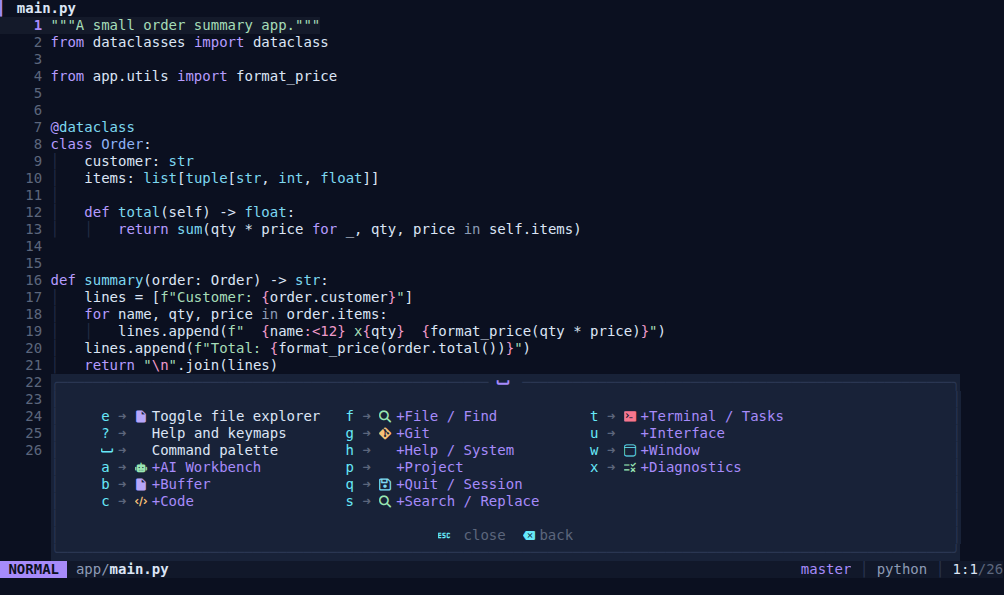
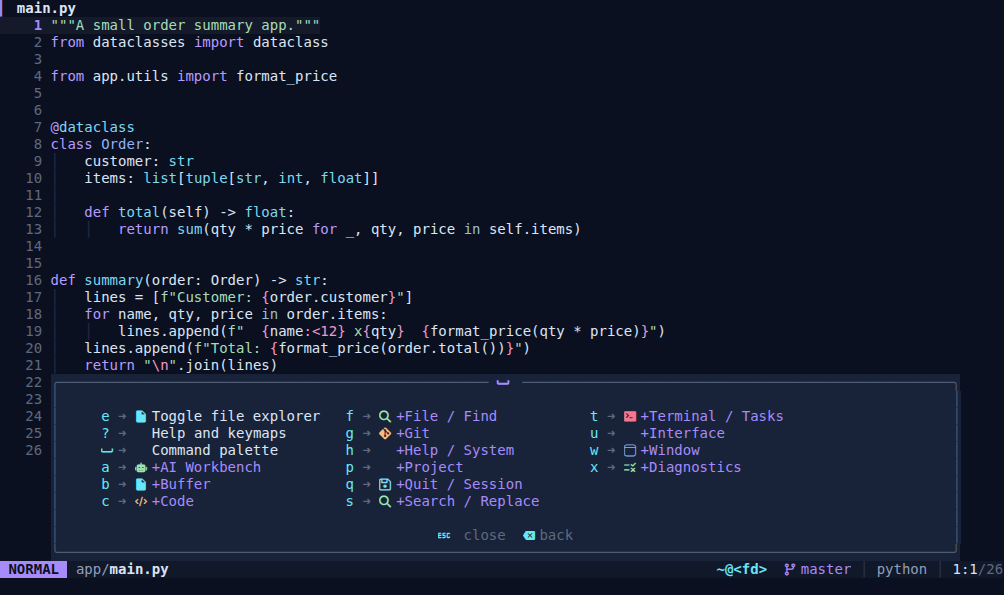
Docs: command line popup, Daybreak, contrast audit; fresh screenshots
README, CHANGELOG (Unreleased), ARCHITECTURE and THIRD_PARTY cover the
command line popup (noice.nvim + nui.nvim), the Daybreak theme and the
WCAG audit. The old "comments >= 4.4:1" claim is replaced by what the
audit enforces. Screenshots are recaptured in a real PTY, now with the
restored icons, plus three new scenes.

Claude-Session: https://claude.ai/code/session_011UjgktaLhydyjbyqR2dxoU

Changed region(s): [[0.7102, 0.9378, 0.8028, 0.9681], [0.1235, 0.7866, 0.1544, 0.8168], [0.1235, 0.6958, 0.1544, 0.7261]]

diff --git a/docs/ARCHITECTURE.md b/docs/ARCHITECTURE.md
@@ -19,7 +19,7 @@ app/lua/noctis/
   files.lua · trash.lua · buffers.lua · quit.lua · session.lua · project.lua
   terminal.lua · tasks.lua · replace.lua · git.lua · format.lua · lang.lua
   bigfile.lua · clipboard.lua · doctor.lua · health.lua · setup.lua · lazy.lua
-  plugins/{snacks,editor,coding}.lua   lazy.nvim plugin specs
+  plugins/{snacks,editor,coding,ui}.lua   lazy.nvim plugin specs
   ai/
     profiles.lua · sessions.lua · workbench.lua · init.lua   Process/session side
     store.lua · scope.lua · baseline.lua · watcher.lua · tracker.lua   Change detection
@@ -56,13 +56,17 @@ and `docs/KEYMAPS.md` are generated from it. User overrides use the command id;
 conflict/prefix checks run in the tests and in `:checkhealth`. An unavailable
 command (missing plugin, `rg`, LSP) is shown with the reason.
 
-**Design system.** Variants define only 11 base tokens + 8 syntax hues; derived
+**Design system.** Variants define only 11 base tokens + 8 syntax hues (plus
+`background`, and two blend knobs that light variants use); derived
 tones such as the selection, search, diff and diagnostics backgrounds are
 produced with the same formulas in `tokens.lua`. Components use highlight groups,
 never colors; when the theme changes, the statusline, tabline, explorer,
 completion, Git, diagnostics and the Workbench all update together. Without
-truecolor every color is mapped to the nearest xterm-256 color. WCAG contrasts
-were measured (body text 14.9:1, comments ≥4.4:1).
+truecolor every color is mapped to the nearest xterm-256 color. `theme.audit()`
+checks every highlight group of every variant against WCAG floors: text 4.5:1,
+dimmed hints 3:1, popup borders 2:1, including text drawn over the selected row
+and syntax over each surface (editor, panel, popup). It runs in the tests and in
+`:checkhealth`, so a color change that breaks a floor fails the suite.
 
 **Typing animation (`ui/typing.lua`).** One `InsertCharPre` autocmd records each
 typed character; after it's inserted, its position is verified and it gets an
@@ -109,14 +113,15 @@ is read without `vim.system`'s text normalization (CRLF is preserved).
 | Formatting | conform.nvim | `stop_after_first`, LSP only as a fallback, timeouts |
 | Tool installation | mason.nvim | Only when the user starts it; NOCTIS adds it to PATH |
 | Icons | mini.icons | Loaded when icons are on; always installed (no network needed when the terminal changes) |
+| Command line popup | noice.nvim + nui.nvim | Only the command line and its completion menu: messages stay in Neovim's message area, notifications with snacks, LSP windows with blink. Off with `ui.cmdline = "classic"` |
 
-Not used: bufferline, lualine, noice, telescope, nvim-cmp, neo-tree — no second
+Not used: bufferline, lualine, telescope, nvim-cmp, neo-tree — no second
 solution doing the same job is loaded.
 
 ## Lazy loading
 
 `snacks.nvim` and `nvim-treesitter` (the plugin doesn't support lazy loading)
-load at startup; which-key on `VeryLazy`, blink.cmp on `InsertEnter`/`CmdlineEnter`,
+load at startup; which-key and noice on `VeryLazy`, blink.cmp on `InsertEnter`/`CmdlineEnter`,
 lspconfig and gitsigns on `BufReadPre`, conform on `BufWritePre`/command, mason on
 command. A not-yet-loaded feature called from the palette or a key is loaded by
 lazy.nvim through `require` (verified in the tests).

diff --git a/README.md b/README.md
@@ -32,6 +32,8 @@ or OpenCode on the same screen while watching every file change they make, live.
 | ![Editor](docs/screenshots/editor.png) | ![AI Workbench](docs/screenshots/ai-workbench.png) |
 | **Change list** | **Side-by-side diff** |
 | ![Changes](docs/screenshots/ai-changes.png) | ![Diff](docs/screenshots/diff-side-by-side.png) |
+| **Command line at the top center** | **Daybreak (light) theme** |
+| ![Command line popup](docs/screenshots/cmdline-popup.png) | ![Daybreak](docs/screenshots/theme-daybreak.png) |
 | **Glacier theme** | **Amber theme** |
 | ![Glacier](docs/screenshots/theme-glacier.png) | ![Amber](docs/screenshots/theme-amber.png) |
 
@@ -44,10 +46,18 @@ not design mockups. How: [`tests/visual/`](tests/visual/). More images:
 - **Command palette** (`Space Space`): search any command by name, description
   or key. Commands that can't run right now are shown with the reason. The
   palette, keymaps, which-key help and the [keymap reference](docs/KEYMAPS.md)
-  are all generated from a single command registry.
-- **Midnight Violet** theme plus **Glacier** and **Amber** variants built from
-  the same design tokens; 256-color fallback when truecolor is missing; fully
-  usable without a Nerd Font.
+  are all generated from a single command registry. Recently used commands
+  come first.
+- **Command line in a popup** at the top center, with the completion menu
+  right under it (as in LazyVim). Each kind of command line has its own icon,
+  title and edge color (command, shell, Lua, help, calculator); `/` and `?`
+  searches stay on the bottom line. `ui.cmdline = "classic"` keeps Neovim's
+  own command line.
+- **Midnight Violet** theme plus **Glacier**, **Amber** and the light
+  **Daybreak** variant, all built from the same design tokens. Every theme is
+  checked against WCAG contrast floors in the tests and in `:checkhealth`;
+  256-color fallback when truecolor is missing; fully usable without a Nerd
+  Font.
 - **Typing animation**: each character you type glows briefly in the accent
   color and fades out (~240 ms). Only the background is animated, so syntax
   colors stay intact. Skipped for pastes, macros and big files; toggle with
@@ -175,7 +185,7 @@ touch this file. All options: [`app/examples/config.lua`](app/examples/config.lu
 
 ```lua
 return {
-  theme = "glacier",                 -- midnight-violet | glacier | amber
+  theme = "glacier",                 -- midnight-violet | glacier | amber | daybreak
   icons = false,                     -- no Nerd Font
   ui = { typing_animation = false }, -- turn the typing glow off
   format_on_save = { enabled = true, filetypes = { "python", "lua" } },

diff --git a/CHANGELOG.md b/CHANGELOG.md
@@ -3,6 +3,43 @@
 All notable changes to NOCTIS are listed here. Versions follow
 [Semantic Versioning](https://semver.org/).
 
+## [Unreleased]
+
+### Interface
+
+- **Command line in a popup at the top center**, with the completion menu right
+  under it (noice.nvim + nui.nvim, as in LazyVim). Command, shell, Lua, help and
+  calculator lines each get their own icon, title and edge color; `/` and `?`
+  stay on the bottom line. Messages, notifications and LSP windows keep their
+  current UI. `ui.cmdline = "classic"` turns it off.
+- Command line completion lists names only (no kind/source columns).
+- Pending keys (`d2`, `"a`, …) show in the statusline instead of the bottom-right
+  corner of the message line.
+- **Daybreak**, a light theme. `:set background=light` switches to it and `dark`
+  returns to the last dark theme; light terminals get a readable ANSI palette.
+- Command palette puts recently used commands first (frecency, two-week
+  half-life); palette rows and dashboard actions carry a glyph per command
+  group; recent files show their file type icon.
+- The Changes view explains the review flow before the first AI session, with
+  live keys.
+
+### Fixes
+
+- Comments were below WCAG AA (3.7–4.4:1) in all three themes; they now pass on
+  every surface. Secondary text and matches on selected menu rows (3.6:1) and
+  popup borders (1.3:1) were also too faint.
+- Code punctuation and operators have their own tones instead of the UI's
+  chrome grey. Transparent mode tints the cursor line from the accent.
+- Fourteen Nerd Font icons were blank (diagnostics, Git branch, lock, terminal,
+  folder, search, warning, conflict, new file, palette, project…).
+- "3 hunk" in the diff header; an untranslated string in the Git view.
+
+### Quality
+
+- `theme.audit()` checks every highlight group of every theme against WCAG
+  floors (text 4.5:1, dimmed hints 3:1, borders 2:1); it runs in the tests and
+  in `noctis --doctor`. A test also fails on any blank Nerd Font icon.
+
 ## [0.1.0] — 2026-10-02
 
 First public release. Tested on Linux x86_64 with Neovim 0.12.4.
@@ -60,4 +97,5 @@ First public release. Tested on Linux x86_64 with Neovim 0.12.4.
   OpenCode were verified in a PTY without sending prompts.
 - AI changes are reviewed after they're written; there's no pre-write approval yet.
 
+[Unreleased]: https://github.com/abdulhalimaltuntas/noctis/compare/v0.1.0...HEAD
 [0.1.0]: https://github.com/abdulhalimaltuntas/noctis/releases/tag/v0.1.0

diff --git a/THIRD_PARTY.md b/THIRD_PARTY.md
@@ -17,6 +17,8 @@ commits in `app/lazy-lock.json`, and are distributed under their own licenses.
 | conform.nvim | 016802d | MIT | https://github.com/stevearc/conform.nvim |
 | mason.nvim | 2a6940a | Apache-2.0 | https://github.com/mason-org/mason.nvim |
 | mini.icons | f642e3b | MIT | https://github.com/nvim-mini/mini.icons |
+| noice.nvim | 7bfd942 | Apache-2.0 | https://github.com/folke/noice.nvim |
+| nui.nvim | 10fc361 | MIT | https://github.com/MunifTanjim/nui.nvim |
 
 Optional external tools (installed by the user; NOCTIS doesn't distribute them):
 ripgrep, git, lazygit, the tree-sitter CLI, language servers and formatters
